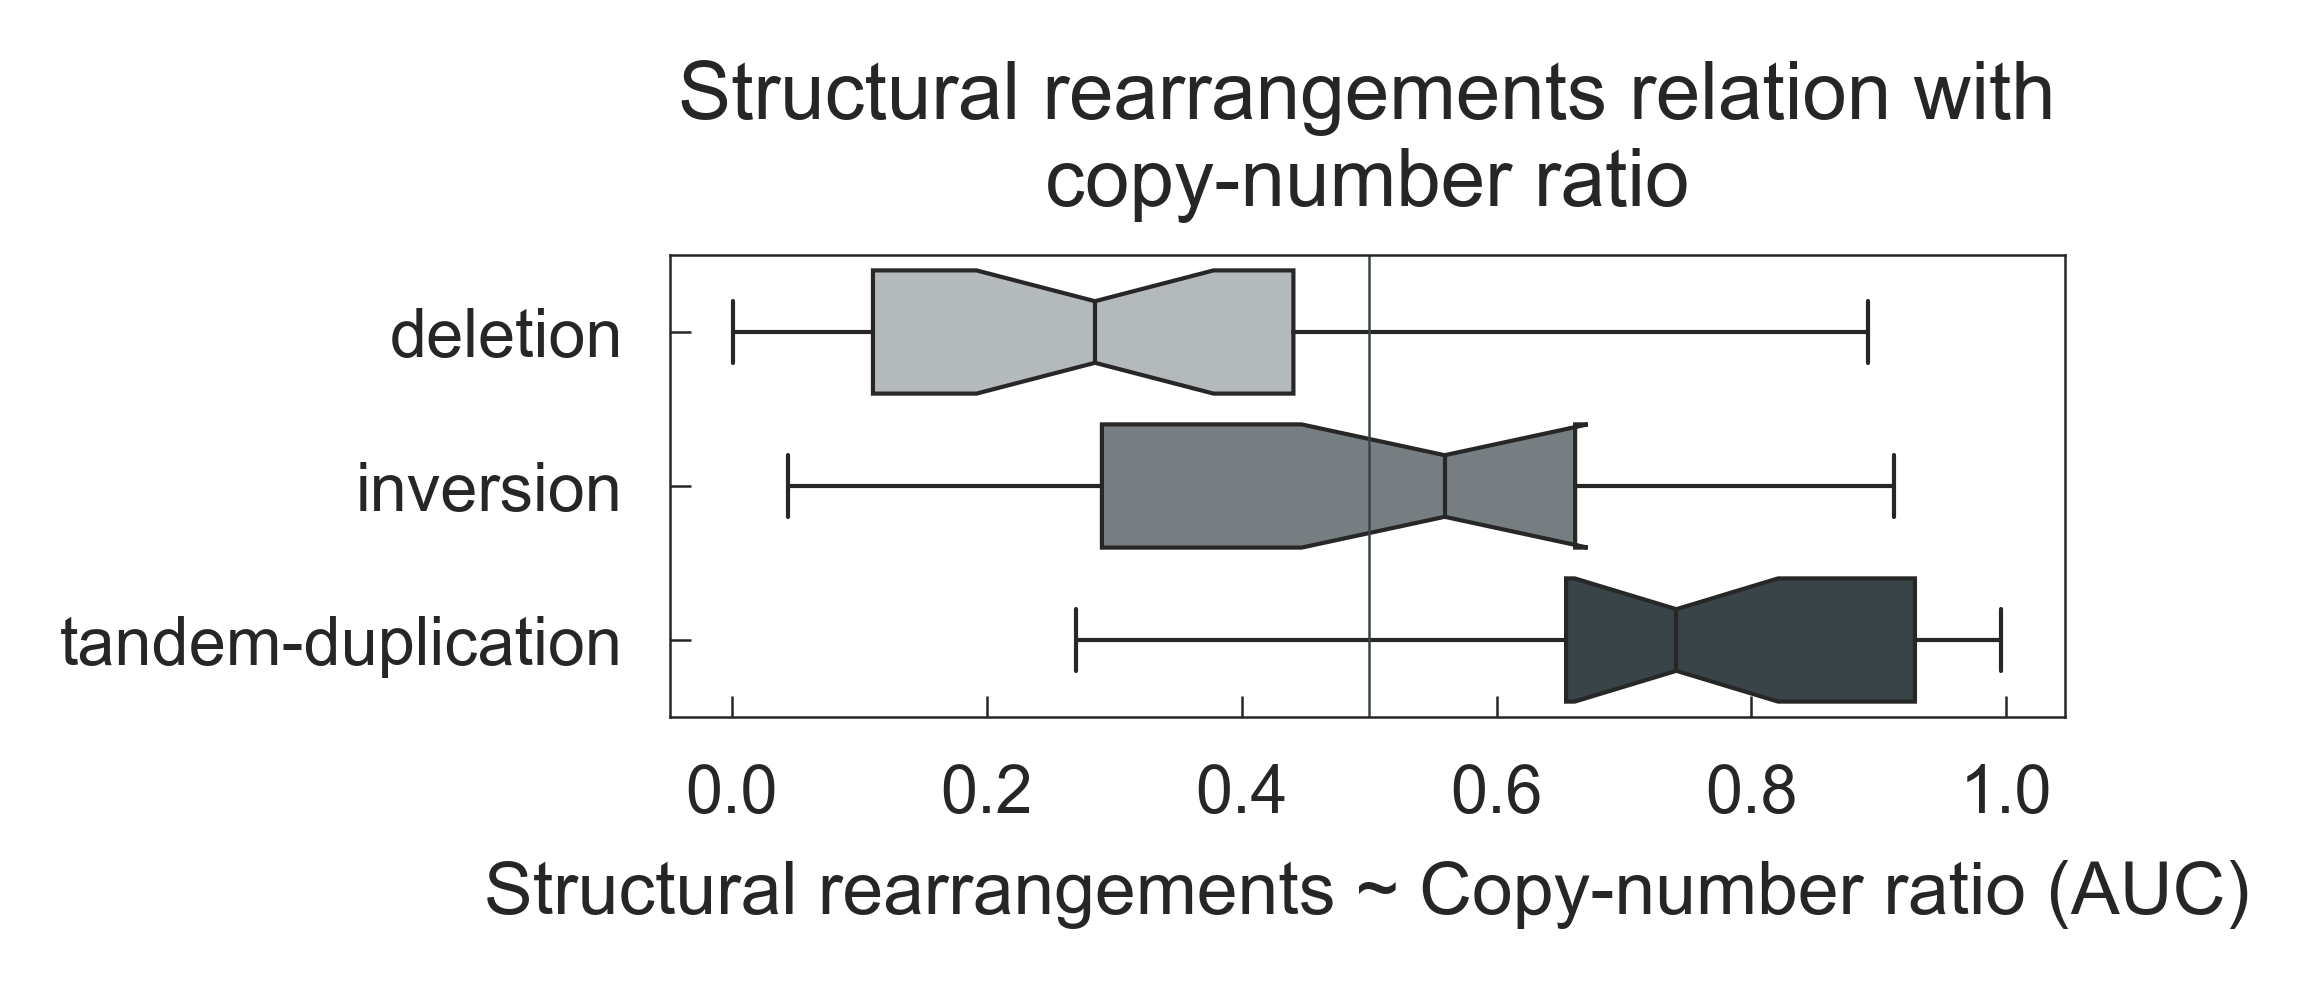
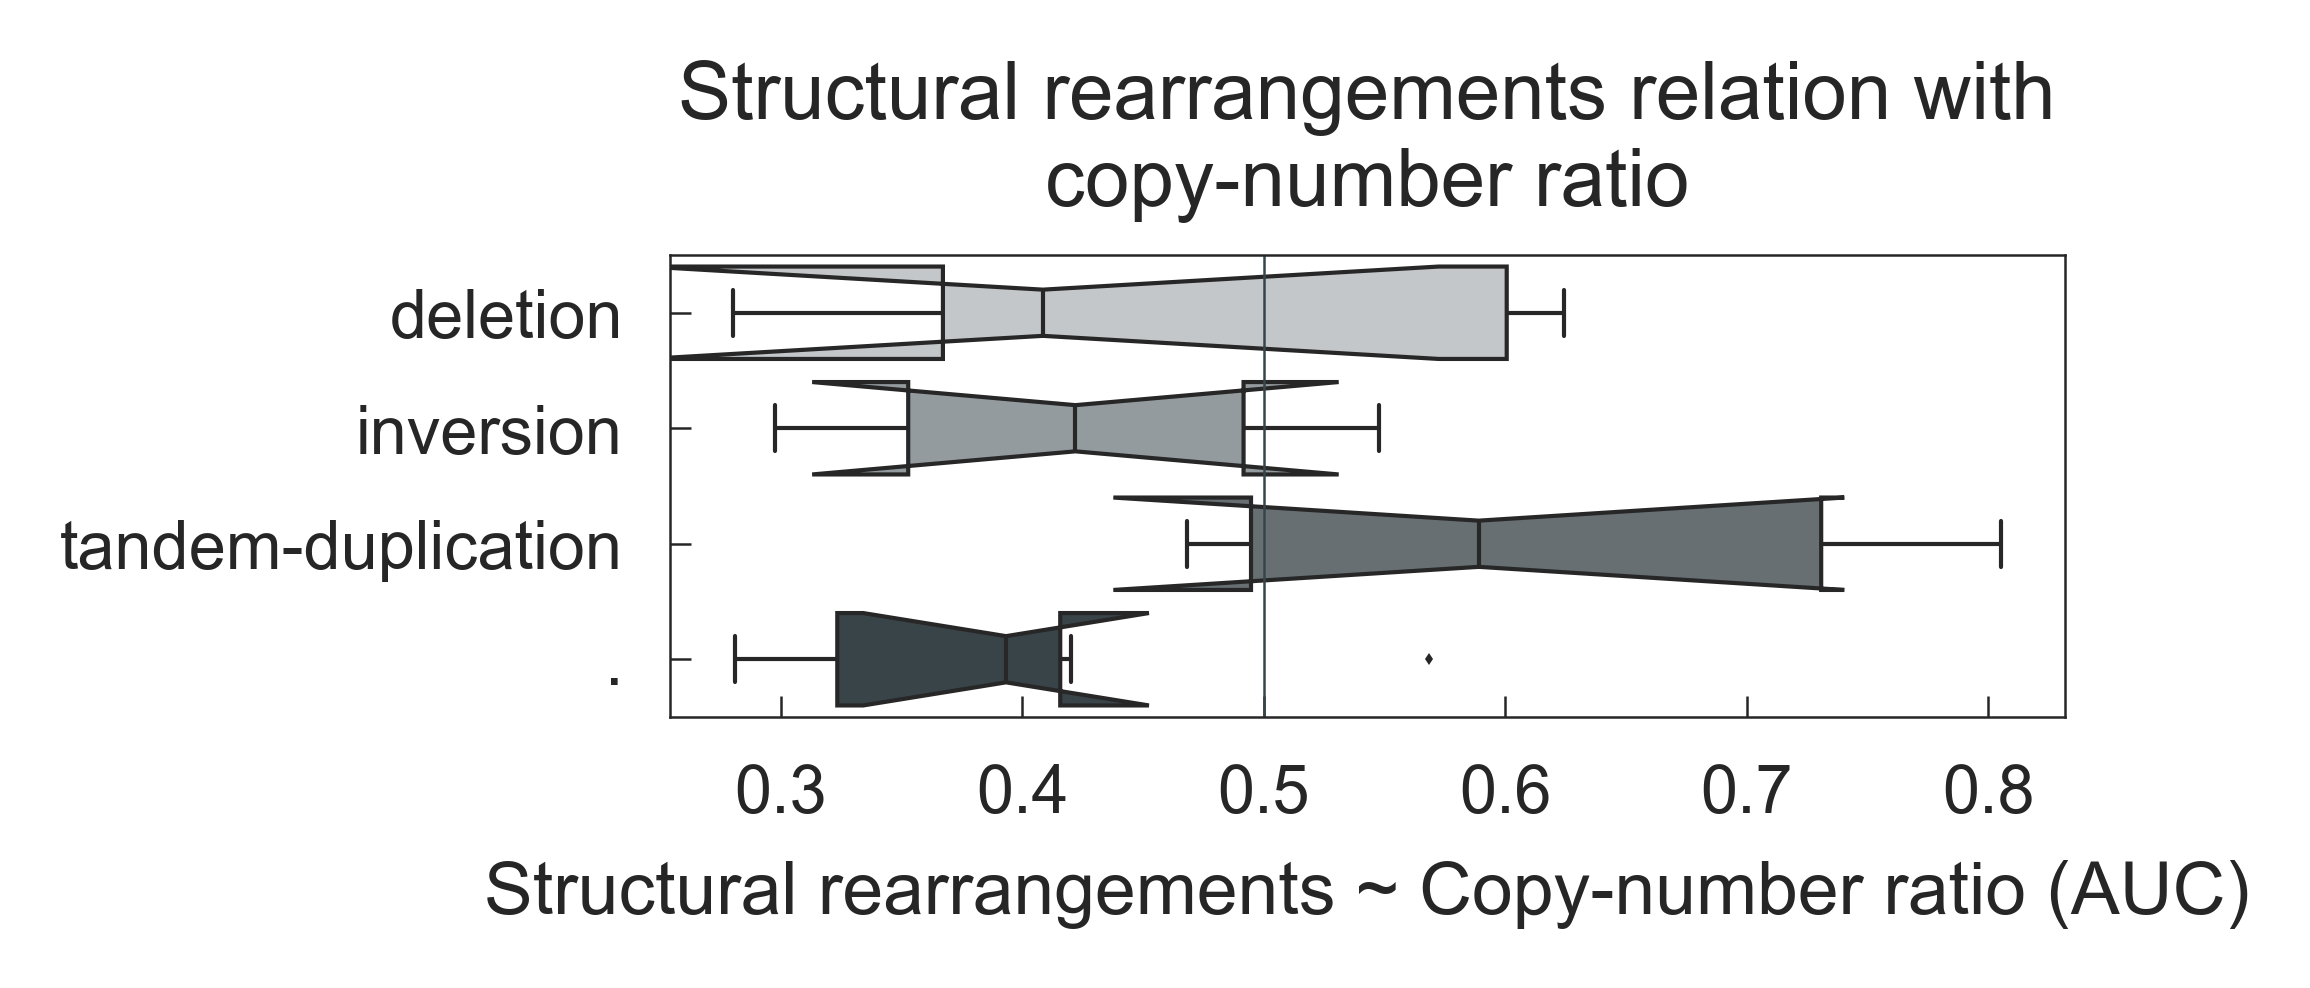
segment size impact in ratio sv enrichment

diff --git a/scripts/crispy/plotting/svplot.py b/scripts/crispy/plotting/svplot.py
@@ -11,7 +11,8 @@ from pybedtools import BedTool
 from crispy import bipal_dbgd
 from matplotlib.patches import Arc
 from crispy.ratio import BRASS_HEADERS
-from sklearn.metrics import roc_curve, auc
+from sklearn.metrics import roc_curve, auc, roc_auc_score
+from crispy.utils import multilabel_roc_auc_score
 
 
 PALETTE = {
@@ -214,12 +215,31 @@ def svcount_barplot(brass):
 
 
 def brass_bedpe_to_bed(bedpe_df):
-    return pd.concat([
-        bedpe_df['chr1'].rename('#chr'),
-        bedpe_df[['start1', 'end1']].mean(1).astype(int).rename('start'),
-        bedpe_df[['start2', 'end2']].mean(1).astype(int).rename('end'),
-        bedpe_df['svclass'].rename('svclass')
+    # Unfold translocations
+    bed_translocations = []
+    for idx in [1, 2]:
+        df = bedpe_df.query("svclass == 'translocation'")
+
+        bed_translocations.append(pd.concat([
+            df['chr{}'.format(idx)].rename('#chr'),
+            df['start{}'.format(idx)].astype(int).rename('start'),
+            df['end{}'.format(idx)].astype(int).rename('end'),
+            df['svclass'].rename('svclass')
+        ], axis=1))
+
+    bed_translocations = pd.concat(bed_translocations)
+
+    # Merge other SVs
+    df = bedpe_df.query("svclass != 'translocation'")
+
+    bed_others = pd.concat([
+        df['chr1'].rename('#chr'),
+        df[['start1', 'end1']].mean(1).astype(int).rename('start'),
+        df[['start2', 'end2']].mean(1).astype(int).rename('end'),
+        df['svclass'].rename('svclass')
     ], axis=1)
+
+    return bed_translocations.append(bed_others)
 
 
 def import_brass_bedpe(bedpe_file, bkdist=None, splitreads=False, convert_to_bed=False):
@@ -248,12 +268,12 @@ def import_brass_bedpe(bedpe_file, bkdist=None, splitreads=False, convert_to_bed
     return bedpe_df
 
 
-def plot_sv_ratios_arocs(plot_df):
-    order = ['deletion', 'inversion', 'tandem-duplication', '.']
+def plot_sv_ratios_arocs(plot_df, order):
+    pal = sns.light_palette(bipal_dbgd[0], len(order) + 1).as_hex()[1:]
 
     ax = plt.gca()
 
-    for t, c in zip(order, sns.light_palette(bipal_dbgd[0], len(order) + 1).as_hex()[1:]):
+    for t, c in zip(order, pal):
         y_true, y_score = plot_df['svclass'].map(lambda x: t in set(x.split(','))).astype(int), plot_df['ratio']
 
         fpr, tpr, _ = roc_curve(y_true, y_score)
@@ -268,6 +288,18 @@ def plot_sv_ratios_arocs(plot_df):
     ax.set_title('Structural rearrangements relation with\ncopy-number ratio')
 
     ax.legend(loc=4, prop={'size': 6})
+
+    return ax
+
+
+def plot_sv_ratios_boxplots(plot_df, order):
+    ax = plt.gca()
+
+    sns.boxplot('ratio', 'svclass', data=plot_df, orient='h', order=order, color=bipal_dbgd[0], notch=True, linewidth=.5, fliersize=1, ax=ax)
+    plt.axvline(1., lw=.3, c=bipal_dbgd[0])
+    plt.title('Structural rearrangements relation with\ncopy-number ratio')
+    plt.xlabel('Copy-number ratio (rank)')
+    plt.ylabel('')
 
     return ax
 
@@ -288,13 +320,28 @@ if __name__ == '__main__':
     plt.close('all')
 
     # - Map structural rearrangements to copy-number ratio segments
-    ratio_svs = []
+    # Import BRCA hotspots
+    hotspots_file = 'data/brca_hotspots.{}'
+
+    hotspots_df = pd.read_csv(hotspots_file.format('csv'))
+
+    hotspots_df = pd.concat([
+        hotspots_df['chr'].apply(lambda x: 'chr{}'.format(x)).rename('#chr'),
+        hotspots_df['start.bp'].rename('start'), hotspots_df['end.bp'].rename('end'),
+        hotspots_df['hotspot.id'].rename('hotspot')
+    ], axis=1)
+    hotspots_df.to_csv(hotspots_file.format('bed'), sep='\t', index=False)
+
+    hotspots = BedTool(hotspots_file.format('bed')).sort()
+
+    #
+    ratio_svs, ratio_hotspots = [], []
     # sample = 'HCC38'
     for sample in samples:
         # Import ASCAT segments and calculate ratios
         seg_file = ascat_dir.format(sample) + '.ratio.bed'
 
-        seg_df = cr.import_bed_datframe(ascat_dir.format(sample)).assign(sample=sample)
+        seg_df = cr.import_bed_datframe(ascat_dir.format(sample), seg_min_size=1).assign(sample=sample)
         seg_df.to_csv(seg_file, sep='\t', index=False)
 
         seg = BedTool(seg_file).sort()
@@ -302,25 +349,66 @@ if __name__ == '__main__':
         # Import BRASS SV
         svs_file = brass_dir.format(sample) + '.bed'
 
-        svs_df = import_brass_bedpe(brass_dir.format(sample), bkdist=0, splitreads=False, convert_to_bed=True)
+        svs_df = import_brass_bedpe(brass_dir.format(sample), bkdist=-1, splitreads=False, convert_to_bed=True)
         svs_df.to_csv(svs_file, sep='\t', index=False)
 
         svs = BedTool(svs_file).sort()
 
         # Map ASCAT copy-number ratio segments to BRASS structural rearrangements
-        seg_svs = seg.map(svs, c=4, o='collapse,count').to_dataframe(names=list(seg_df.columns) + ['svclass', 'count'])
+        seg_hotspots = seg.map(hotspots, c=4, o='collapse').to_dataframe(names=list(seg_df.columns) + ['hotspots'])
 
-        # Append
-        ratio_svs.append(seg_svs)
+        ratio_svs.append(
+            seg.map(svs, c=4, o='collapse,count')
+                .to_dataframe(names=list(seg_df.columns) + ['svclass', 'count'])
+                .assign(hotspots=seg_hotspots['hotspots'].values)
+        )
 
-    ratio_svs = pd.concat(ratio_svs).reset_index()
-    ratio_svs = ratio_svs.assign(length=ratio_svs.eval('end - start').apply(bin_bkdist).values)
-    print(ratio_svs.sort_values('ratio'))
+    ratio_svs = pd.concat(ratio_svs).reset_index(drop=True)
+
+    ratio_svs = ratio_svs.assign(length=ratio_svs.eval('end - start').values)
+    ratio_svs = ratio_svs.assign(length_bin=ratio_svs['length'].apply(bin_bkdist).values)
+
+    ratio_svs = ratio_svs.assign(is_hotspot=ratio_svs['hotspots'].apply(lambda x: int(x != '.')).values)
+    print(ratio_svs.sort_values('ratio', ascending=False).head(30))
 
     # - Copy-number ratio structural rearrangements enrichment
+    order = ['deletion', 'inversion', 'translocation', 'tandem-duplication', '.']
+    plot_df = ratio_svs.query('count <=1').copy()
+    print(plot_df.sort_values('ratio', ascending=False).head(30))
+
+    #
+    aucs_df = pd.DataFrame([
+        {
+            'svclass': t,
+            'svdist': d,
+            'auc': roc_auc_score(
+                plot_df.query("length_bin == '{}'".format(d))['svclass']
+                    .map(lambda x: t in set(x.split(','))).astype(int),
+                plot_df.query("length_bin == '{}'".format(d))['ratio']
+            )
+        }
+        for t in order for d in BKDIST_ORDER
+    ])
+    sns.barplot('svclass', 'auc', 'svdist', aucs_df, order=order, hue_order=BKDIST_ORDER)
+    plt.show()
+
     # AROCs
-    ax = plot_sv_ratios_arocs(ratio_svs)
+    ax = plot_sv_ratios_arocs(plot_df, order)
 
     plt.gcf().set_size_inches(3, 3)
     plt.savefig('reports/crispy/brass_sv_ratio_cumdist.png', bbox_inches='tight', dpi=600)
     plt.close('all')
+
+    # # Boxplots
+    # ax = plot_sv_ratios_boxplots(plot_df, order)
+    #
+    # plt.gcf().set_size_inches(3, 1)
+    # plt.savefig('reports/crispy/brass_sv_ratio_boxplot.png', bbox_inches='tight', dpi=600)
+    # plt.close('all')
+    #
+    # # SV enrichment per sample
+    # plot_sv_ratios_arocs_per_sample(plot_df, 'sample', order)
+    #
+    # plt.gcf().set_size_inches(3, 1)
+    # plt.savefig('reports/crispy/brass_sv_ratio_boxplot_auc.png', bbox_inches='tight', dpi=600)
+    # plt.close('all')

diff --git a/crispy/ratio.py b/crispy/ratio.py
@@ -74,8 +74,10 @@ def map_cn(bed_file, method='min,max,mean,median,collapse,count', cn_field_pos=4
     return gff_map_df
 
 
-def import_bed_datframe(bed_file, remove_sex_chr=True, add_ratio=True):
+def import_bed_datframe(bed_file, remove_sex_chr=True, add_ratio=True, seg_min_size=-1):
     bed = pd.read_csv(bed_file, sep='\t')
+
+    bed = bed[bed.eval('end - start') > seg_min_size]
 
     if remove_sex_chr:
         bed = bed[~bed['#chr'].isin(SEX_CHR)]
